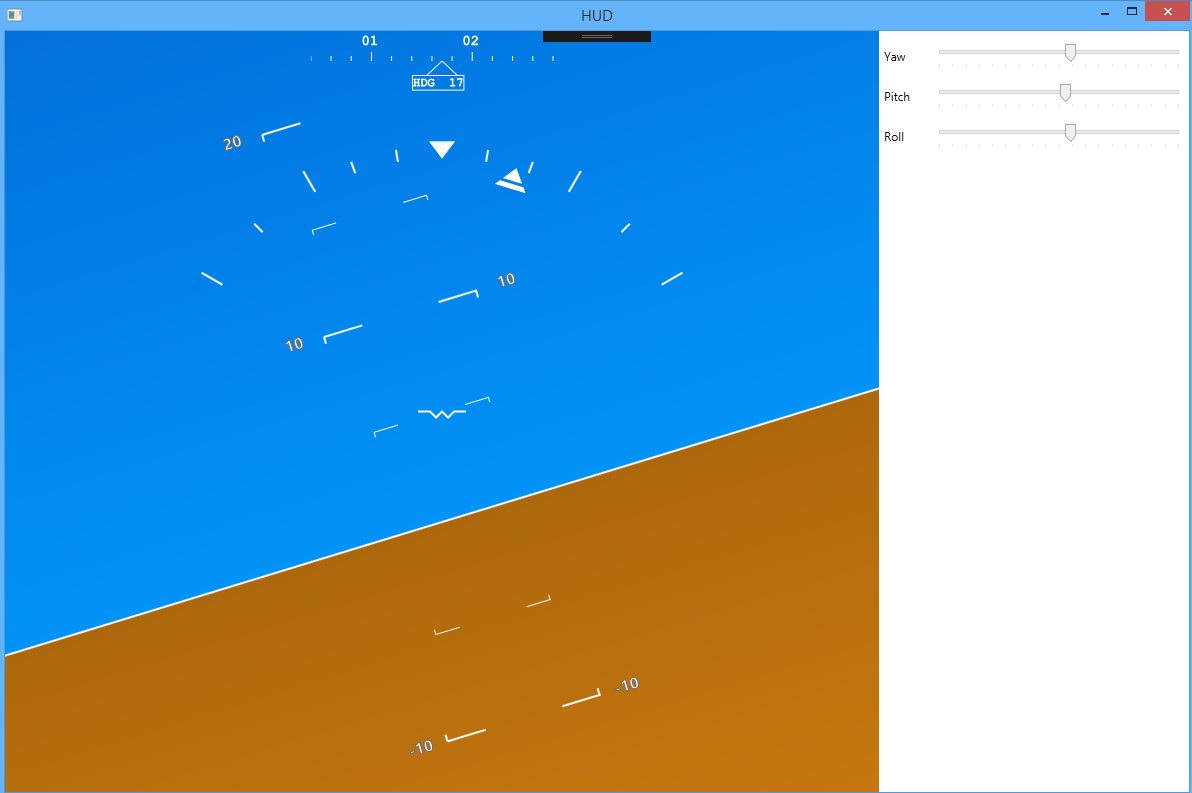
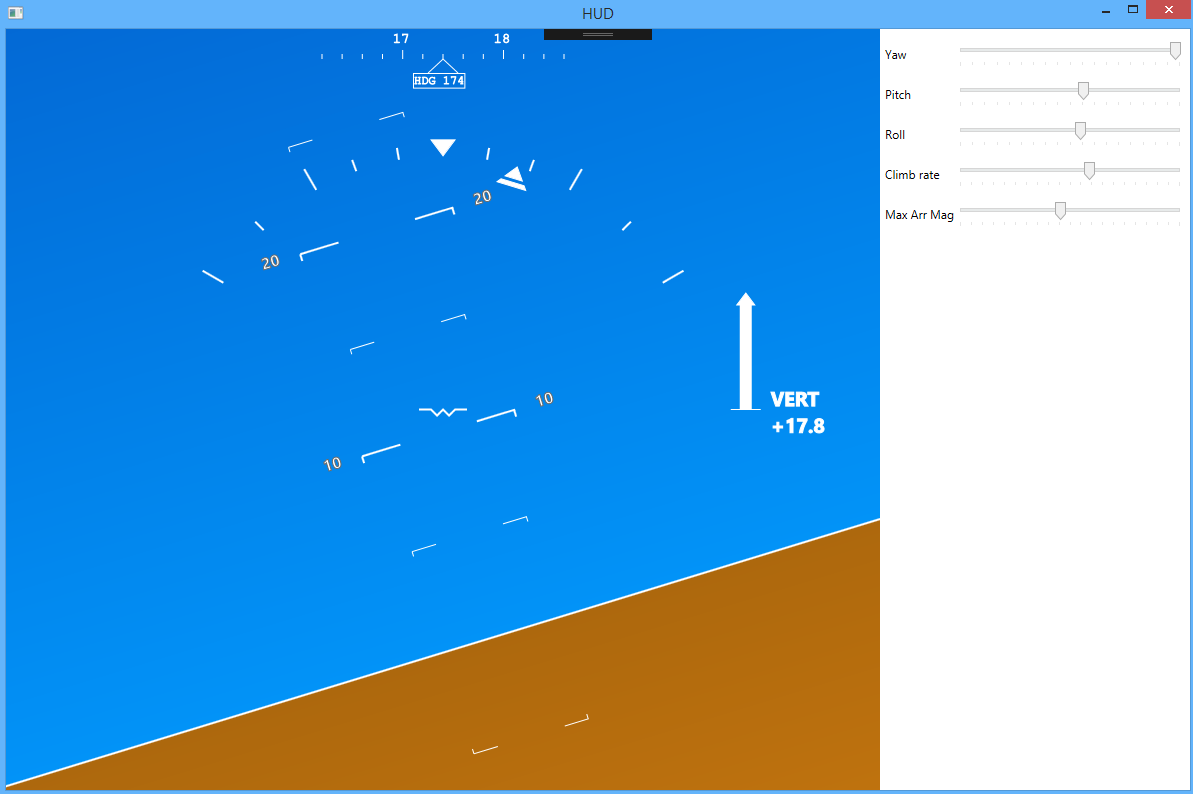
Adding climb rate indicator

diff --git a/pilotHUD_Sample/MainWindow.xaml b/pilotHUD_Sample/MainWindow.xaml
@@ -12,14 +12,20 @@
       <ColumnDefinition/>
       <ColumnDefinition Width="Auto"/>
     </Grid.ColumnDefinitions>
-    <pilotHUD:hudControl RollAngle="{Binding ElementName=Slider_Roll,Path=Value}" PitchAngle="{Binding ElementName=Slider_Pitch,Path=Value}" YawAngle="{Binding ElementName=Slider_Yaw,Path=Value}"/>
+    <pilotHUD:hudControl RollAngle="{Binding ElementName=Slider_Roll,Path=Value}" 
+                         PitchAngle="{Binding ElementName=Slider_Pitch,Path=Value}" 
+                         YawAngle="{Binding ElementName=Slider_Yaw,Path=Value}"
+                         ClimbRate="{Binding ElementName=Slider_ClimbRate,Path=Value}"
+                         MaxClimbRateArrowMag="{Binding ElementName=Slider_MaxClimbArrMag,Path=Value}"/>
     <Border Grid.Column="1">
       <Grid Width="300" Margin="5">
         <Grid.ColumnDefinitions>
-          <ColumnDefinition Width="50"/>
+          <ColumnDefinition Width="70"/>
           <ColumnDefinition/>
         </Grid.ColumnDefinitions>
         <Grid.RowDefinitions>
+          <RowDefinition Height="40"/>
+          <RowDefinition Height="40"/>
           <RowDefinition Height="40"/>
           <RowDefinition Height="40"/>
           <RowDefinition Height="40"/>
@@ -31,7 +37,10 @@
         <Slider Name="Slider_Pitch" Grid.Column="1" Grid.Row="1" Minimum="-90" Maximum="90" Value="0" TickFrequency="10" TickPlacement="BottomRight"  VerticalAlignment="Center"/>
         <TextBlock Text="Roll" VerticalAlignment="Center" Grid.Row="2"/>
         <Slider Name="Slider_Roll" Grid.Column="1" Grid.Row="2" Minimum="-180" Maximum="180" Value="0" TickFrequency="20" TickPlacement="BottomRight"  VerticalAlignment="Center"/>
-
+        <TextBlock Text="Climb rate" VerticalAlignment="Center" Grid.Row="3"/>
+        <Slider Name="Slider_ClimbRate" Grid.Column="1" Grid.Row="3" Minimum="-100" Maximum="100" Value="0" TickFrequency="10" TickPlacement="BottomRight"  VerticalAlignment="Center"/>
+        <TextBlock Text="Max Arr Mag" VerticalAlignment="Center" Grid.Row="4"/>
+        <Slider Name="Slider_MaxClimbArrMag" Grid.Column="1" Grid.Row="4" Minimum="0" Maximum="100" Value="50" TickFrequency="5" TickPlacement="BottomRight"  VerticalAlignment="Center"/>
       </Grid>
     </Border>
   </Grid>

diff --git a/pilotHUD/hudControl.xaml b/pilotHUD/hudControl.xaml
@@ -12,9 +12,18 @@
       <Border BorderBrush="Black" BorderThickness="0" Background="Transparent" Visibility="Visible">
         <Grid>
           <Canvas Name="Canvas_HUD" HorizontalAlignment="Center" VerticalAlignment="Center"/>
+          <Grid>
+            <Grid.ColumnDefinitions>
+              <ColumnDefinition Width="1*" />
+              <ColumnDefinition Width="2*" />
+              <ColumnDefinition Width="1*" />
+            </Grid.ColumnDefinitions>
+            <Grid Name="Grid_RightHUD" Grid.Column="2" ClipToBounds="True">
+              <Canvas Name="Canvas_RightHUD" HorizontalAlignment="Center" VerticalAlignment="Center"/>
+            </Grid>
+          </Grid>
         </Grid>
       </Border>
-
       <Grid>
         <Grid.RowDefinitions>
           <RowDefinition Height="10*" />
@@ -34,7 +43,6 @@
           <Canvas Name="Canvas_PitchIndicator" HorizontalAlignment="Center" VerticalAlignment="Center" />
         </Grid>
       </Grid>
-      
     </Grid>
   </Border>
 </UserControl>

diff --git a/pilotHUD/hudControl.xaml.cs b/pilotHUD/hudControl.xaml.cs
@@ -22,6 +22,7 @@ namespace pilotHUD
   {
     public hudControl()
     {
+      MaxClimbRateArrowMag = 50;
       InitializeComponent();
     }
     private static void GestureChangedCallback(DependencyObject d, DependencyPropertyChangedEventArgs e)
@@ -44,6 +45,28 @@ namespace pilotHUD
     }
     public static readonly DependencyProperty PitchAngleProperty =
         DependencyProperty.Register("PitchAngle", typeof(double), typeof(hudControl), new FrameworkPropertyMetadata((double)0, GestureChangedCallback));
+
+    public double ClimbRate
+    {
+      get { return (double)GetValue(ClimbRateProperty); }
+      set { SetValue(ClimbRateProperty, value); }
+    }
+    public static readonly DependencyProperty ClimbRateProperty =
+        DependencyProperty.Register("ClimbRate", typeof(double), typeof(hudControl), new FrameworkPropertyMetadata((double)0, GestureChangedCallback));
+
+    public double MaxClimbRateArrowMag
+    {
+      get { return (double)GetValue(MaxClimbRateArrowMagProperty); }
+      set
+      {
+        if (value > 0)
+        {
+          SetValue(MaxClimbRateArrowMagProperty, value);
+        }
+      }
+    }
+    public static readonly DependencyProperty MaxClimbRateArrowMagProperty =
+        DependencyProperty.Register("MaxClimbRateArrowMag", typeof(double), typeof(hudControl), new FrameworkPropertyMetadata((double)0, GestureChangedCallback));
 
     public double YawAngle
     {
@@ -437,20 +460,7 @@ namespace pilotHUD
 
     private void DrawZeroRollTick(double circleRad)
     {
-      Polygon triangle = new Polygon();
-      triangle.Stroke = Brushes.White;
-      triangle.Fill = Brushes.White;
-      triangle.StrokeThickness = 1;
-      triangle.HorizontalAlignment = HorizontalAlignment.Left;
-      triangle.VerticalAlignment = VerticalAlignment.Center;
-      Point Point1 = new Point(0, 0);
-      Point Point2 = new Point(12, -16);
-      Point Point3 = new Point(-12, -16);
-      PointCollection pc = new PointCollection();
-      pc.Add(Point1);
-      pc.Add(Point2);
-      pc.Add(Point3);
-      triangle.Points = pc;
+      Polygon triangle = CreateTriangle(0, 0, 12, -16, -12, -16);
 
       Canvas.SetTop(triangle, -circleRad);
       Canvas_HUD.Children.Add(triangle);
@@ -458,20 +468,7 @@ namespace pilotHUD
 
     private void DrawRollIndicator(double circleRad, double rollAngle)
     {
-      Polygon triangle = new Polygon();
-      triangle.Stroke = Brushes.White;
-      triangle.Fill = Brushes.White;
-      triangle.StrokeThickness = 1;
-      triangle.HorizontalAlignment = HorizontalAlignment.Left;
-      triangle.VerticalAlignment = VerticalAlignment.Center;
-      Point triP1 = new Point(0, 0);
-      Point triP2 = new Point(9, 12);
-      Point triP3 = new Point(-9, 12);
-      PointCollection pc = new PointCollection();
-      pc.Add(triP1);
-      pc.Add(triP2);
-      pc.Add(triP3);
-      triangle.Points = pc;
+      Polygon triangle = CreateTriangle(0, 0, 9, 12, -9, 12);
 
       Polygon trapezoid = new Polygon();
       trapezoid.Stroke = Brushes.White;
@@ -521,6 +518,82 @@ namespace pilotHUD
       DrawRollIndicator(circleRad, rollAngle);
     }
 
+    private void DrawClimbRate(double climbRate)
+    {
+      var txtBlkL = new BorderTextLabel();
+      txtBlkL.Stroke = Brushes.White;
+      txtBlkL.Text = "VERT\n" + climbRate.ToString("+0.0;-0.0;0.0");
+      txtBlkL.Foreground = Brushes.White;
+      txtBlkL.FontSize = 20;
+      txtBlkL.FontWeight = FontWeights.Bold;
+      Canvas.SetTop(txtBlkL, -25);
+      Canvas_RightHUD.Children.Add(txtBlkL);
+
+      Line zeroLn = new Line();
+      zeroLn.X1 = -10;
+      zeroLn.X2 = -40;
+      zeroLn.Y1 = 0;
+      zeroLn.Y2 = 00;
+      zeroLn.Stroke = Brushes.White;
+      zeroLn.StrokeThickness = 1;
+      Canvas_RightHUD.Children.Add(zeroLn);
+
+      double maxHUD_Height = Grid_RightHUD.ActualHeight * 0.7;
+
+      double magHeight = Math.Abs(climbRate);
+      if (magHeight > MaxClimbRateArrowMag)
+      {
+        magHeight = MaxClimbRateArrowMag;
+      }
+
+      Rectangle climbMagnitude = new Rectangle();
+      climbMagnitude.Fill = Brushes.White;
+      climbMagnitude.Width = 12;
+      climbMagnitude.Height = maxHUD_Height * (magHeight / (2 * MaxClimbRateArrowMag));
+      Canvas.SetLeft(climbMagnitude, -31);
+
+      Polygon triangle = CreateTriangle(-9, 0, 9, 0, 0, 12);
+      Canvas.SetLeft(triangle, -25);
+
+      if (climbRate > 0)
+      {
+        Canvas.SetTop(climbMagnitude, -climbMagnitude.Height);
+        Canvas.SetTop(triangle, -climbMagnitude.Height);
+        triangle.RenderTransform = new RotateTransform(180);
+      }
+      else
+      {
+        Canvas.SetTop(triangle, climbMagnitude.Height);
+      }
+
+      if (Math.Abs(climbRate) > 1.0)
+      {
+        // don't draw flickering arrow if bouncing around near 0
+        Canvas_RightHUD.Children.Add(triangle);
+      }
+      Canvas_RightHUD.Children.Add(climbMagnitude);
+    }
+
+    private Polygon CreateTriangle(double x1, double y1, double x2, double y2, double x3, double y3)
+    {
+      Polygon triangle = new Polygon();
+      triangle.Stroke = Brushes.White;
+      triangle.Fill = Brushes.White;
+      triangle.StrokeThickness = 1;
+      triangle.HorizontalAlignment = HorizontalAlignment.Left;
+      triangle.VerticalAlignment = VerticalAlignment.Center;
+      Point triP1 = new Point(x1, y1);
+      Point triP2 = new Point(x2, y2);
+      Point triP3 = new Point(x3, y3);
+      PointCollection pc = new PointCollection();
+      pc.Add(triP1);
+      pc.Add(triP2);
+      pc.Add(triP3);
+      triangle.Points = pc;
+
+      return triangle;
+    }
+
     private void DrawAircraft()
     {
       double segmentLength = 6;
@@ -557,17 +630,19 @@ namespace pilotHUD
       Canvas_PitchIndicator.Children.Clear();
       Canvas_HUD.Children.Clear();
       Canvas_Compass.Children.Clear();
+      Canvas_RightHUD.Children.Clear();
 
       DrawGroundAndSky(PitchAngle);
       DrawPitchTicks(PitchAngle, RollAngle);
       DrawCompass(YawAngle);
       DrawHeading(YawAngle);
       DrawRoll(RollAngle);
+      DrawClimbRate(ClimbRate);
       DrawAircraft();
 
       Canvas_Background.RenderTransform = new RotateTransform(-RollAngle);
       Canvas_PitchIndicator.RenderTransform = new RotateTransform(-RollAngle);
     }
-
+       
   }
 }
